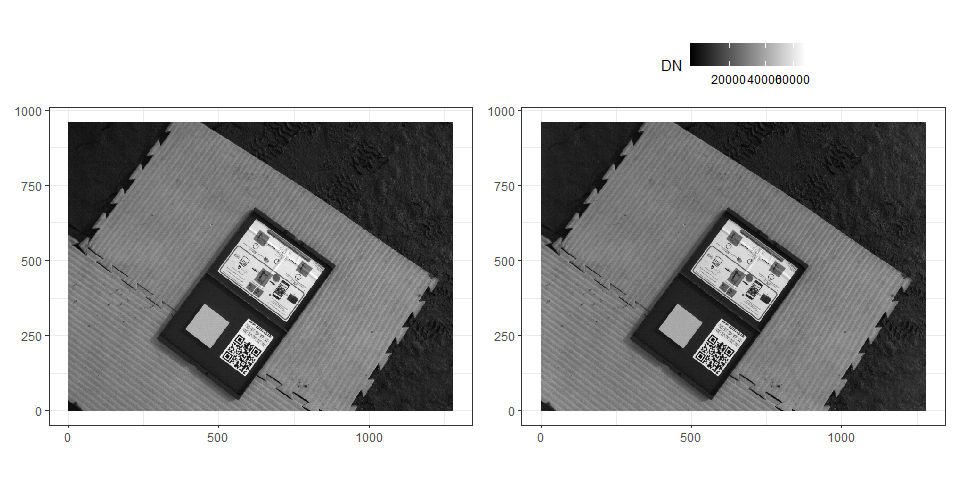
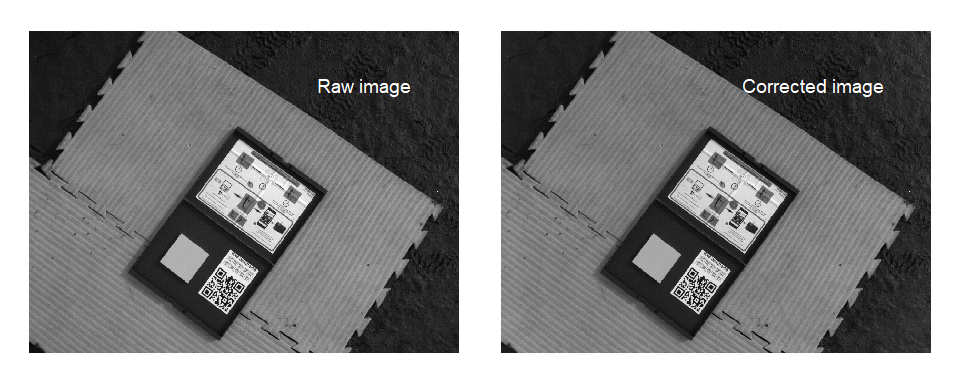
save 05/02 18h11

diff --git a/README.md b/README.md
@@ -211,7 +211,9 @@ The output of `vignette_map()` should give something looking like that :
 <img src="export/plot/exemple_vignetting.png" width="50%" style="padding-left:25%;background-color:white;" />
 
 To correct the original image, we simply need to multiply the image by
-the vignetting map.
+the vignetting map. It’s not that obvious, but on the plot below,
+corners of the corrected images (right) are brighter than those of the
+Raw image (left)
 
 <img src="README_files/figure-commonmark/fig-compareVignette-1.png"
 id="fig-compareVignette" style="width:100.0%"
